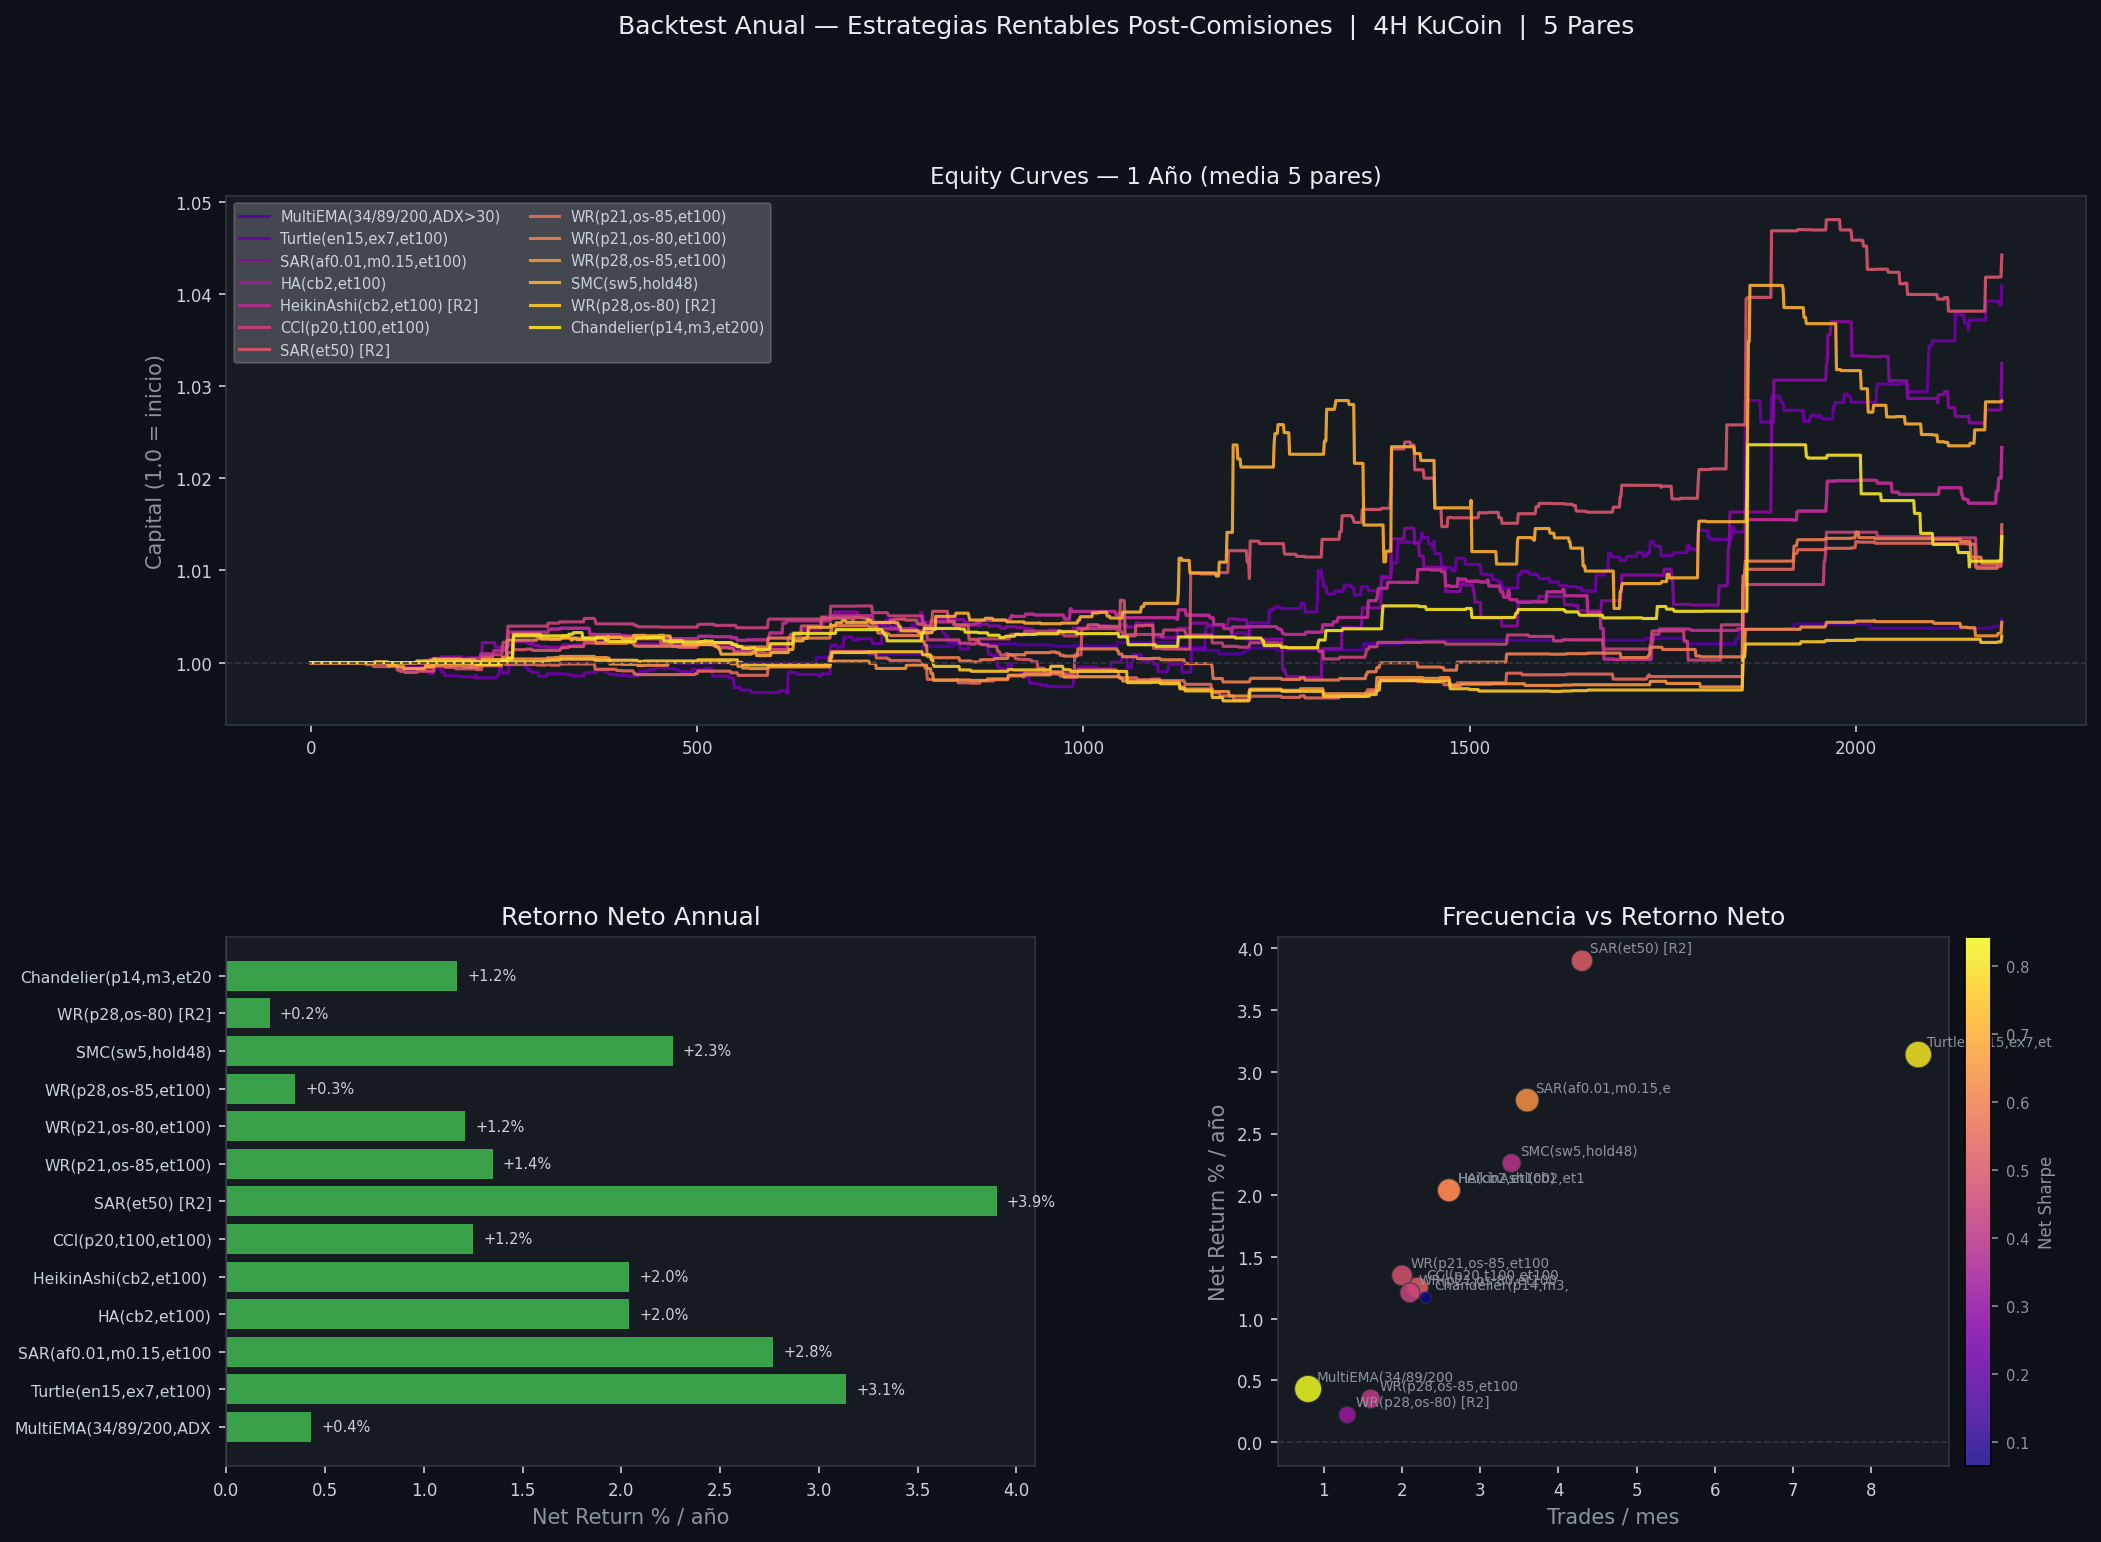
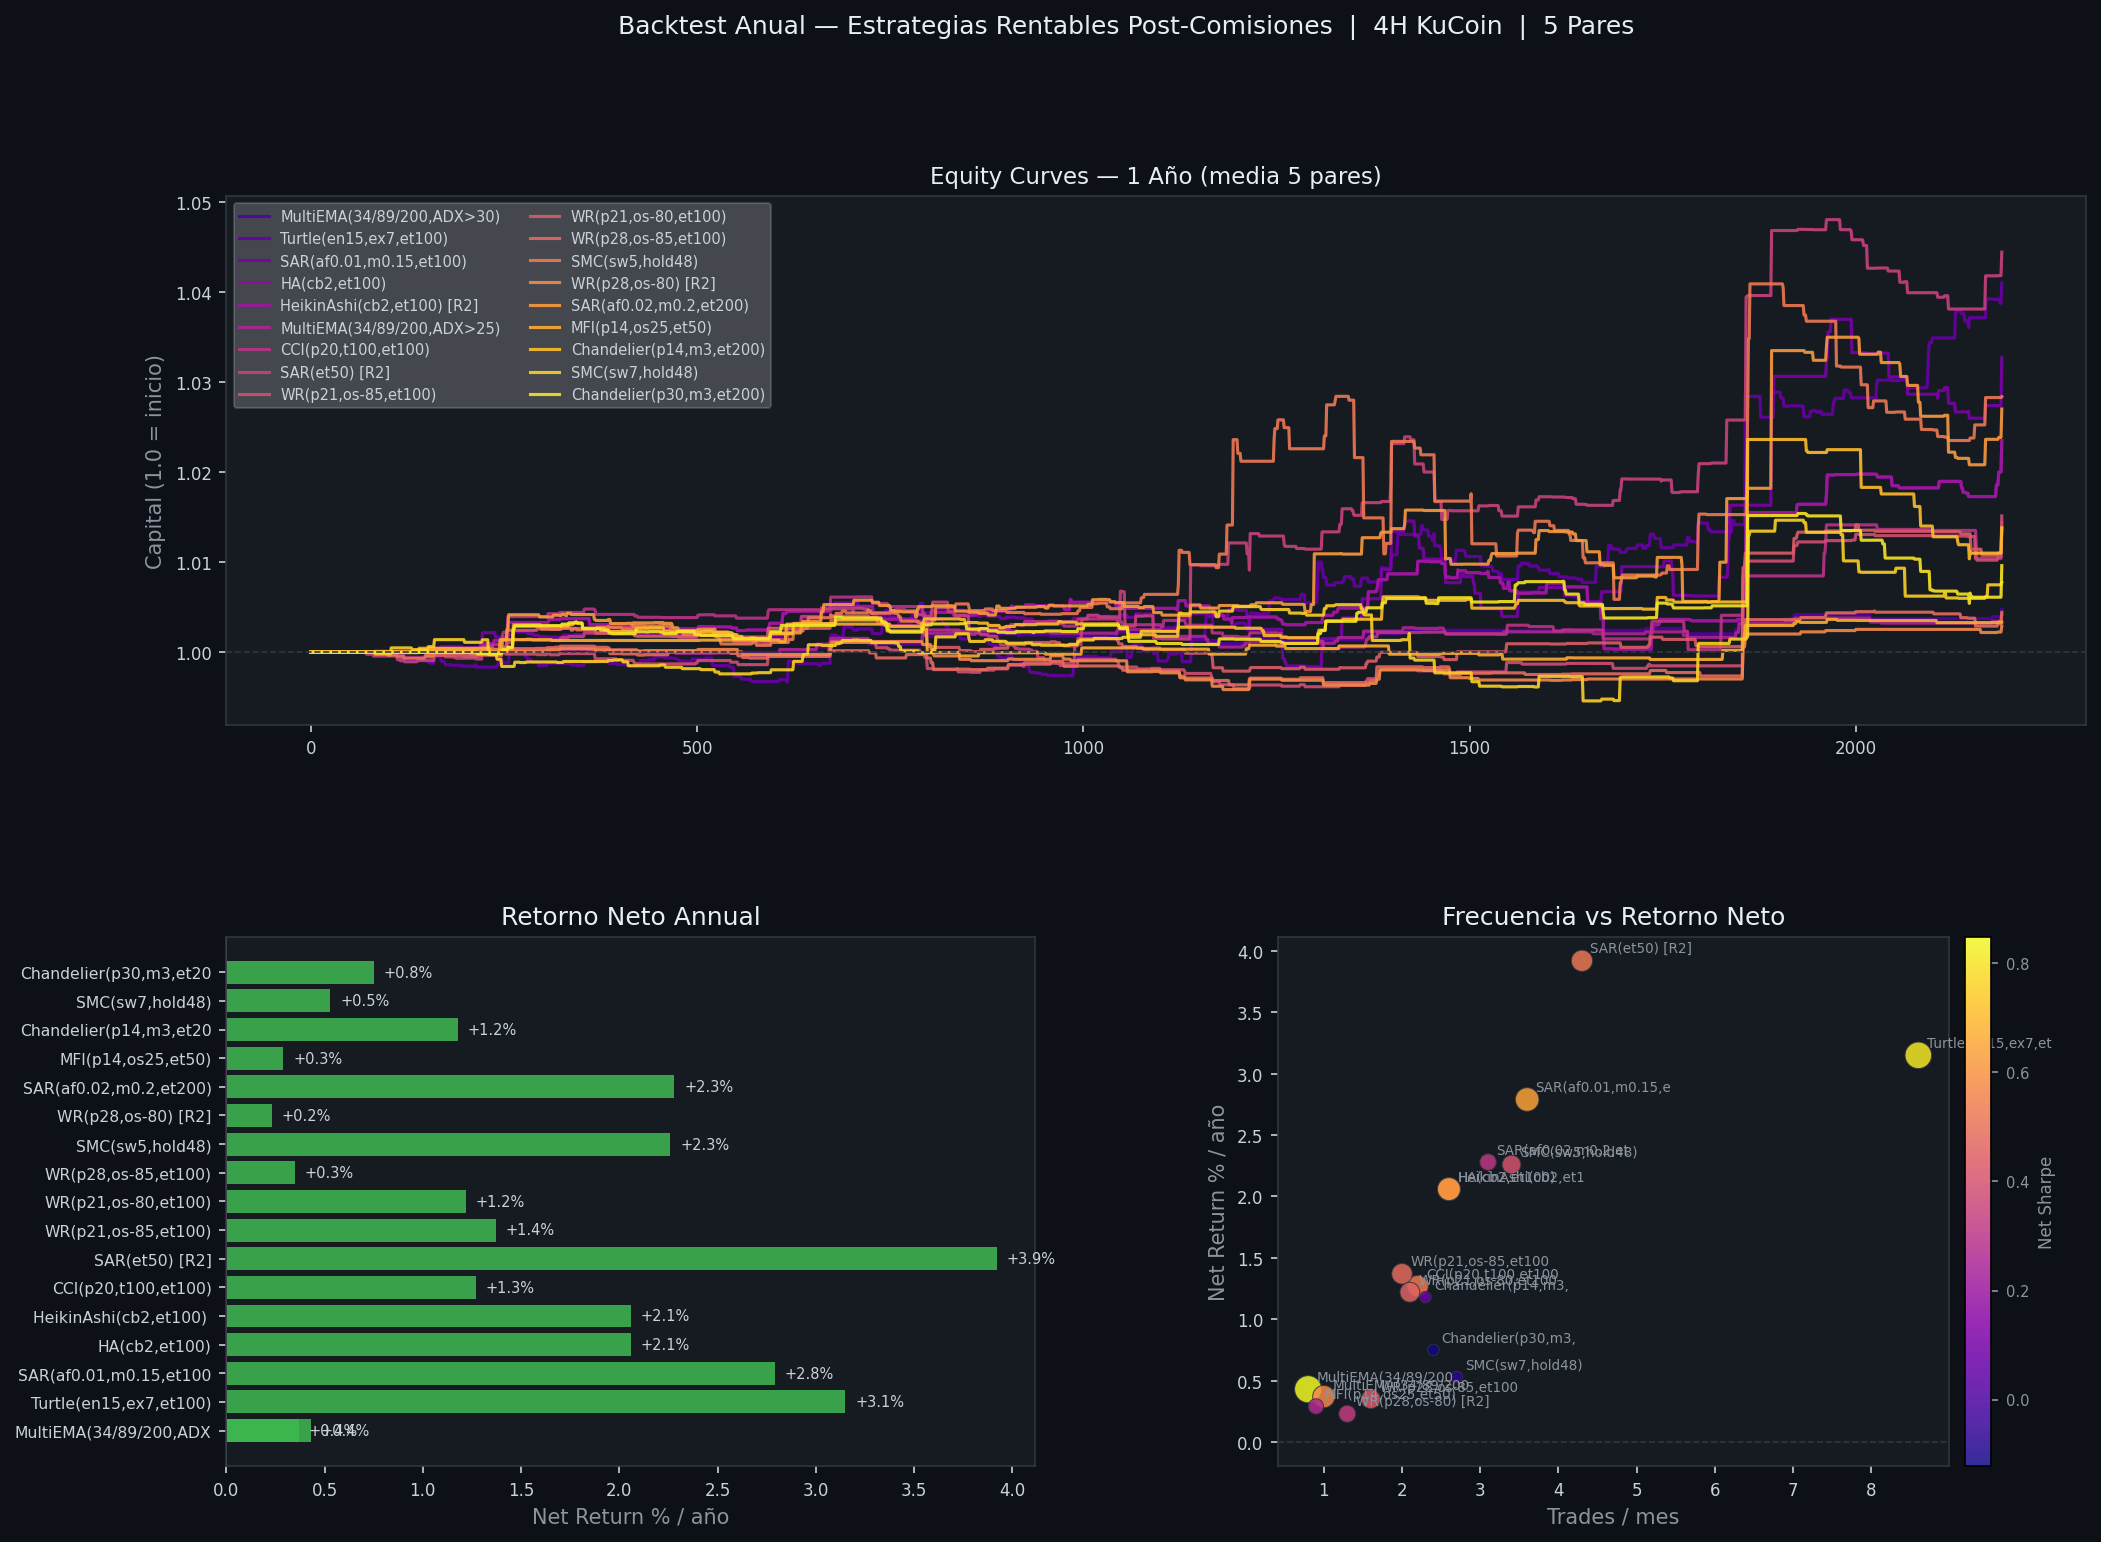
Extend annual backtest to include all strategies from all tournaments
Added 8 missing strategies from R1, R2, and fee-aware tournaments:
MFI(p14,os25,et50), Keltner(ema20,m2,cb3), Engulfing(et100,bm1.2),
SAR(af0.02,m0.2,et200), Chandelier(p30,m3,et200),
MultiEMA(ADX>25), SMC(sw7), WR(p28,os-80)

Final results: 18/21 strategies profitable after 0.2% round-trip fees
Best Sharpe: MultiEMA(34/89/200,ADX>30) → 0.849, WR 64%, MaxDD -0.3%
Best return: SAR(et50) → +3.92%/year
Not profitable: MFI(os20), Keltner(cb3), Engulfing — destroyed by fees

https://claude.ai/code/session_01SZRjtYfjTknzVvXyonp4RS

diff --git a/backtests/annual_fee_backtest.py b/backtests/annual_fee_backtest.py
@@ -45,8 +45,9 @@ from strategies.kelly_sizer    import KellySizer
 from strategies.smc_strategy   import SMCStrategy
 from strategies.strategy_zoo2  import (
     ParabolicSARStrategy, WilliamsRStrategy, HeikinAshiStrategy,
+    MFIStrategy, KeltnerBreakoutStrategy,
 )
-from strategies.strategy_zoo   import CCIStrategy
+from strategies.strategy_zoo   import CCIStrategy, EngulfingStrategy
 from strategies.swing_strategies import (
     ChandelierExitStrategy, TurtleBreakoutStrategy, MultiEMASwingStrategy,
 )
@@ -91,9 +92,21 @@ STRATEGIES = [
     ("HA(cb2,et100)",
      HeikinAshiStrategy(confirm_bars=2, ema_trend=100)),
 
+    ("SAR(af0.02,m0.2,et200)",
+     ParabolicSARStrategy(af_start=0.02, af_max=0.2, ema_trend=200)),
+
+    ("Chandelier(p30,m3,et200)",
+     ChandelierExitStrategy(period=30, mult=3.0, ema_trend=200)),
+
+    ("MultiEMA(34/89/200,ADX>25)",
+     MultiEMASwingStrategy(e1=34, e2=89, e3=200, adx_thresh=25)),
+
     # ── Ganadoras Torneos R1/R2 (validadas en Fee Analysis anterior) ─────
     ("SMC(sw5,hold48)",
      SMCStrategy(swing_window=5)),
+
+    ("SMC(sw7,hold48)",
+     SMCStrategy(swing_window=7)),
 
     ("HeikinAshi(cb2,et100) [R2]",
      HeikinAshiStrategy(confirm_bars=2, ema_trend=100)),
@@ -103,6 +116,19 @@ STRATEGIES = [
 
     ("WR(p28,os-80) [R2]",
      WilliamsRStrategy(period=28, oversold=-80, ema_trend=50)),
+
+    # ── R2 Top (no incluidas antes) ───────────────────────────────────────
+    ("MFI(p14,os20,et50)",
+     MFIStrategy(period=14, oversold=20, overbought=80, ema_trend=50)),
+
+    ("MFI(p14,os25,et50)",
+     MFIStrategy(period=14, oversold=25, overbought=75, ema_trend=50)),
+
+    ("Keltner(ema20,m2,cb3)",
+     KeltnerBreakoutStrategy(ema_period=20, mult=2.0, confirm_bars=3)),
+
+    ("Engulfing(et100,bm1.2) [R1]",
+     EngulfingStrategy(ema_trend=100, body_mult=1.2)),
 ]
 
 
